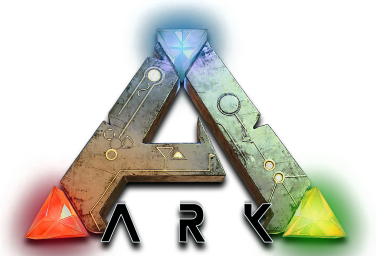
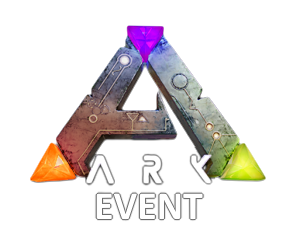
Added the Discord Event to refresh the message.

diff --git a/resources/views/Statut/page/index.blade.php b/resources/views/Statut/page/index.blade.php
@@ -19,10 +19,10 @@
         <div class="alert alert-{{ $alert }} text-xs-center" role="alert">
             @if($alert == "danger")
                 <i class="fa fa-exclamation-triangle fa-2x " style="vertical-align: middle;" aria-hidden="true"></i>
-                Certains de nos serveurs sont actuellement <b>hors ligne</b>, l'equipe travaille actuellement dessus !
+                Certains de nos serveurs sont actuellement <b>hors ligne</b>, l'équipe travaille dessus !
             @elseif ($alert == "warning")
                 <i class="fa fa-exclamation fa-2x " style="vertical-align: middle;"  aria-hidden="true"></i>
-                Certains serveurs rencontrent actuellement des difficultés, l'équipe travaille actuellement sur le problème !
+                Des opérations sont actuellement en cours sur certains de nos serveurs.
             @elseif ($alert == "success")
                 <i class="fa fa-check fa-2x " style="vertical-align: middle;" aria-hidden="true"></i>
                 Tous nos serveurs sont actuellement en ligne !
@@ -57,17 +57,35 @@
                                         <h5 class="mb-1">{{ $player->ingame_name }}</h5>
                                         <small class="text-muted">Connecté depuis {{ $player->created_at->format('H:i:s d-m-Y') }}</small>
                                     </div>
-                                    <ul class="list-unstyled">
-                                        <li>Steam ID : <code>{{ $player->steam_id }}</code></li>
-                                        <li>Nom Steam : <code>{{ $player->steam_name }}</code></li>
-                                        <li>Tribu : <code style="{{ $player->tribe != false ?: "color: red;" }}">{{ $player->tribe == false ? "Aucune tribu" : $player->tribe  }}</code></li>
-                                    </ul>
+                                    <small class="text-muted">
+                                        <dl class="row">
+                                            <dt class="col-sm-4">Steam ID :</dt>
+                                            <dd class="col-sm-8"><code>{{ $player->steam_id }}</code></dd>
+                                            <dt class="col-sm-4">Nom Steam :</dt>
+                                            <dd class="col-sm-8"><code>{{ $player->steam_name }}</code></dd>
+                                            <dt class="col-sm-4">Tribu :</dt>
+                                            <dd class="col-sm-8"><code style="{{ $player->tribe != false ?: "color: red;" }}">{{ $player->tribe == false ? "Aucune tribu" : $player->tribe  }}</code></dd>
+                                        </dl>
+                                    </small>
                                     @if (!is_null($player->user))
                                         <small class="text-muted">
-                                            <ul class="list-unstyled">
-                                                <li>Pseudo Discord : <code>{{ $player->user->username }}</code></li>
-                                                <li>Discord ID: <code>{{ $player->user->discord_id }}</code></li>
-                                            </ul>
+                                            <dl class="row">
+                                                <dt class="col-sm-4">Pseudo Discord :</dt>
+                                                <dd class="col-sm-8"><code>{{ $player->user->username }}</code></dd>
+                                                <dt class="col-sm-4">Discord ID :</dt>
+                                                <dd class="col-sm-8"><code>{{ $player->user->discord_id }}</code></dd>
+                                                <dt class="col-sm-4">Profil Discuss :</dt>
+                                                <dd class="col-sm-8 font-weight-bold">{!! Html::link(
+                                                        url('http://discuss.ark-division.fr/users/profile/@' . e($player->user->username)),
+                                                        "@" . $player->user->username,
+                                                        [
+                                                            'class' => 'text-primary',
+                                                            'targ
+                                                        null,
+                                                        falseet' => '_blank'
+                                                        ],
+                                                    ) !!}</dd>
+                                            </dl>
                                         </small>
                                     @endif
                                 </div>

diff --git a/app/Listeners/Subscribers/Server/ServerStatusSubscriber.php b/app/Listeners/Subscribers/Server/ServerStatusSubscriber.php
@@ -1,0 +1,104 @@
+<?php
+namespace Xetaravel\Listeners\Subscribers\Server;
+
+use RestCord\DiscordClient;
+use Xetaravel\Events\Servers\ServerStatusHasFinishedEvent;
+use Xetaravel\Models\Server;
+use Xetaravel\Models\Status;
+
+class ServerStatusSubscriber
+{
+    /**
+     * The events mapping to the listener function.
+     *
+     * @var array
+     */
+    protected $events = [
+        ServerStatusHasFinishedEvent::class => 'serverStatusHasFinished',
+    ];
+
+    /**
+     * Register the listeners for the subscriber.
+     *
+     * @param Illuminate\Events\Dispatcher $events
+     *
+     * @return void
+     */
+    public function subscribe($events)
+    {
+        foreach ($this->events as $event => $action) {
+            $events->listen($event, ServerStatusSubscriber::class . '@' . $action);
+        }
+    }
+
+    /**
+     * Handle a ServerStatusHasFinished event.
+     *
+     * @param \Xetaravel\Events\Server\ServerStatusHasFinishedEvent $event The event that was fired.
+     *
+     * @return bool
+     */
+    public function serverStatusHasFinished(ServerStatusHasFinishedEvent $event)
+    {
+        $discord = new DiscordClient(['token' => config('xetaravel.bot.token')]);
+
+        $fields = [];
+
+        // Build the fields array.
+        foreach ($event->data['servers'] as $server) {
+            $serverStatus = Status::where('type', $server['status']) ->first();
+            $status = $serverStatus->emoji . " " . $serverStatus->type_formatted;
+            $players = $server['playersCount'] > 1 ?
+            "**" . $server['playersCount'] . "** joueurs" :
+            "**" . $server['playersCount'] . "** joueur";
+
+            array_push($fields, [
+                'name' => sprintf("%s  **` %s `**", $server['emoji'], $server['name']),
+                'value' => sprintf("** **\n**%s**\nJoueur(s) : %s \n**\n\n\n **", $status, $players),
+                'inline' => true
+            ]);
+        }
+
+        $discord->channel->editMessage([
+            'channel.id' => 739126558106845224,
+            'message.id' => 739280060971876402,
+            'content'    => "** **",
+            'embed'      => [
+                "title" => "***:small_blue_diamond:  ━━━  Statuts des serveurs ARK Division France  ━━━ ".
+                " :small_blue_diamond:***",
+                "description" => "**\n **<:division:693196707592274030> **` ARK Division `**\n :small_blue_diamond: **".
+                $event->data['playersCount'] ."** joueurs connectés\n :small_blue_diamond: **" .
+                $event->data['serversCount'] . "** serveurs en ligne **\n\n\n **",
+                "color" => hexdec("1DFCEA"),
+                "footer" => [
+                    "text" => "Dernière mise à jour • " . date('d-m-Y à H:i:s') . " (v2)"
+                ],
+                "fields" => $fields
+            ]
+        ]);
+        //$event->servers
+    }
+
+    /**
+     * Create the ruby.
+     *
+     * @param array $data The data used to create the ruby.
+     *
+     * @return bool
+     */
+    protected function create(array $data) : bool
+    {
+        if (!isset($data['data'])) {
+            $data['data'] = [];
+        }
+        $ruby = Ruby::create($data);
+
+        switch ($ruby->event_type) {
+            case PostWasSolvedEvent::class:
+                    $ruby->user->increment('rubies_total', $this->rubies[PostWasSolvedEvent::class]);
+                break;
+        }
+
+        return !(is_null($ruby));
+    }
+}

diff --git a/app/Console/Commands/RefreshServersStatutes.php b/app/Console/Commands/RefreshServersStatutes.php
@@ -3,6 +3,7 @@ namespace Xetaravel\Console\Commands;
 
 use Carbon\Carbon;
 use Illuminate\Console\Command;
+use Xetaravel\Events\Servers\ServerStatusHasFinishedEvent;
 use Xetaravel\Http\Helpers\Rcon;
 use Xetaravel\Models\Repositories\ServerRepository;
 use Xetaravel\Models\Server;
@@ -60,8 +61,16 @@ class RefreshServersStatutes extends Command
 
             // Verify that the server status is different from the RCON status and
             // the server status is expired to update it.
+            $updated = false;
+
             if ($server->status->type != $rconStatus && $server->status->pivot->isExpired) {
-                $this->updateServerStatus($server, $rconStatus);
+                $updated = $this->updateServerStatus($server, $rconStatus);
+            }
+
+            $serverStatus = $server->status->type;
+
+            if ($updated) {
+                $serverStatus = $rconStatus;
             }
 
             // If we can't etablished a connection, that means the server is 'stopped'.
@@ -69,6 +78,8 @@ class RefreshServersStatutes extends Command
                 array_push($data['servers'], [
                     'id' => $server->id,
                     'name' => $server->name,
+                    'emoji' => $server->emoji,
+                    'status' => $serverStatus,
                     'players' => [],
                     'playersCount' => 0
                 ]);
@@ -86,6 +97,8 @@ class RefreshServersStatutes extends Command
                 array_push($data['servers'], [
                     'id' => $server->id,
                     'name' => $server->name,
+                    'emoji' => $server->emoji,
+                    'status' => $serverStatus,
                     'players' => [],
                     'playersCount' => 0
                 ]);
@@ -116,6 +129,8 @@ class RefreshServersStatutes extends Command
             array_push($data['servers'], [
                 'id' => $server->id,
                 'name' => $server->name,
+                'emoji' => $server->emoji,
+                'status' => $serverStatus,
                 'players' => $players,
                 'playersCount' => count($users)
             ]);
@@ -131,6 +146,9 @@ class RefreshServersStatutes extends Command
 
             $server->players()->sync($serverStats['players']);
         }
+
+        // Fire the event that will update the discord message.
+        event(new ServerStatusHasFinishedEvent($data));
 
         $end = microtime(true);
         $this->info("The code took " . round(($end - $start)) . " seconds to complete.");
@@ -178,9 +196,9 @@ class RefreshServersStatutes extends Command
      * @param Xetaravel\Models\Server $server The server to update the status.
      * @param string $rconStatus The new status type.
      *
-     * @return void
+     * @return bool
      */
-    protected function updateServerStatus(Server $server, $rconStatus)
+    protected function updateServerStatus(Server $server, $rconStatus): bool
     {
         // Update the pivot table record and force it to be closed.
         $data = [
@@ -198,5 +216,7 @@ class RefreshServersStatutes extends Command
         $server->statutes()->attach($status->id, [
             'event_type' => 'rcon'
         ]);
+
+        return true;
     }
 }

diff --git a/database/seeds/ServersTableSeed.php b/database/seeds/ServersTableSeed.php
@@ -104,7 +104,7 @@ class ServersTableSeed extends Seeder
                 'ip' => '149.202.89.195',
                 'rcon_port' => 32338,
                 'password' => 'nicoslifefaitdelasso',
-                'color' => 'fffffe',
+                'color' => '2f2f2f',
                 'emoji' => '<:the_island:737714241532067913>',
                 'is_display' => 1,
                 'created_at' => Carbon::now(),
@@ -123,12 +123,24 @@ class ServersTableSeed extends Seeder
                 'updated_at' => Carbon::now(),
             ],
             [
+                'name' => 'ZMap Event',
+                'slug' => 'zmap-event',
+                'ip' => '149.202.89.195',
+                'rcon_port' => 32350,
+                'password' => 'bigeventserver',
+                'color' => '2f2f2f',
+                'emoji' => '<:the_island:737714241532067913>',
+                'is_display' => 0,
+                'created_at' => Carbon::now(),
+                'updated_at' => Carbon::now(),
+            ],
+            [
                 'name' => 'ZTest Ragnarok',
                 'slug' => 'ztest-ragnarok',
                 'ip' => '149.202.89.195',
                 'rcon_port' => 32348,
                 'password' => 'MbSzeAbvMUUVs6iF',
-                'color' => 'fffffe',
+                'color' => '2f2f2f',
                 'emoji' => '<:ragnarok:737714090075750492>',
                 'is_display' => 0,
                 'created_at' => Carbon::now(),

diff --git a/app/Providers/EventServiceProvider.php b/app/Providers/EventServiceProvider.php
@@ -25,7 +25,8 @@ class EventServiceProvider extends ServiceProvider
         \Xetaravel\Listeners\Subscribers\BadgeSubscriber::class,
         \Xetaravel\Listeners\Subscribers\Discuss\LogSubscriber::class,
         \Xetaravel\Listeners\Subscribers\ExperienceSubscriber::class,
-        \Xetaravel\Listeners\Subscribers\RubySubscriber::class
+        \Xetaravel\Listeners\Subscribers\RubySubscriber::class,
+        \Xetaravel\Listeners\Subscribers\Server\ServerStatusSubscriber::class
     ];
 
     /**

diff --git a/database/migrations/2020_08_05_210313_create_servers_table.php b/database/migrations/2020_08_05_210313_create_servers_table.php
@@ -20,7 +20,7 @@ class CreateServersTable extends Migration
             $table->ipAddress('ip');
             $table->integer('rcon_port');
             $table->string('password', 50)->nullable();
-            $table->string('color', 7)->nullable();
+            $table->string('color', 6)->nullable();
             $table->string('emoji', 50)->nullable();
             $table->unsignedInteger('user_count')->default(0);
             $table->boolean('is_display')->default(true);

diff --git a/config/xetaravel.php b/config/xetaravel.php
@@ -64,5 +64,16 @@ return [
         'categories_sidebar' => 2, //15,
         // The number in days.
         'info_message_old_conversation' => 92
+    ],
+
+    /*
+    |--------------------------------------------------------------------------
+    | Discord
+    |--------------------------------------------------------------------------
+    |
+    |
+    */
+    'bot' => [
+        'token' => 'NjM1MzkxMTg3MzAxNDMzMzgw.XawZSg.9To9qyVYR_BIUlEGMFTA1DHXrqQ'
     ]
 ];

diff --git a/app/Console/Kernel.php b/app/Console/Kernel.php
@@ -28,8 +28,8 @@ class Kernel extends ConsoleKernel
         $schedule->command('servers:refresh')
             ->everyMinute()
             ->withoutOverlapping()
-            ->runInBackground();
-            //->appendOutputTo('/srv/users/serverpilot/apps/0website/storage/logs/scheduler.log');
+            ->runInBackground()
+            ->appendOutputTo('/srv/users/serverpilot/apps/0website/storage/logs/scheduler.log');
     }
 
     /**

diff --git a/app/Http/Controllers/Auth/SocialiteController.php b/app/Http/Controllers/Auth/SocialiteController.php
@@ -131,8 +131,10 @@ class SocialiteController extends Controller
             $register = $this->handleRegister($request, $user);
         }
 
-        if ($register instanceof RedirectResponse) {
+        if (isset($register) && $register instanceof RedirectResponse) {
             return $register;
+        } else {
+            $register = $member;
         }
 
         return $this->login($request, $register);

diff --git a/database/migrations/2020_08_05_210458_create_statutes_table.php b/database/migrations/2020_08_05_210458_create_statutes_table.php
@@ -18,7 +18,7 @@ class CreateStatutesTable extends Migration
             $table->string('type', 20);
             $table->string('type_formatted', 50)->nullable();
             $table->text('description');
-            $table->string('color', 7)->nullable();
+            $table->string('color', 6)->nullable();
             $table->string('emoji', 50)->nullable();
             $table->timestamps();
         });

diff --git a/app/Events/Servers/ServerStatusHasFinishedEvent.php b/app/Events/Servers/ServerStatusHasFinishedEvent.php
@@ -1,0 +1,19 @@
+<?php
+namespace Xetaravel\Events\Servers;
+
+use Xetaravel\Models\Server;
+
+class ServerStatusHasFinishedEvent
+{
+    public $data;
+
+    /**
+     * Create a new event instance.
+     *
+     * @param array $data The data array that was build.
+     */
+    public function __construct(array $data)
+    {
+        $this->data = $data;
+    }
+}

diff --git a/app/Events/RegisterEvent.php b/app/Events/RegisterEvent.php
@@ -5,6 +5,11 @@ use Xetaravel\Models\User;
 
 class RegisterEvent
 {
+    /**
+     * The user instance.
+     *
+     * @var \Xetaravel\Models\User
+     */
     public $user;
 
     /**
